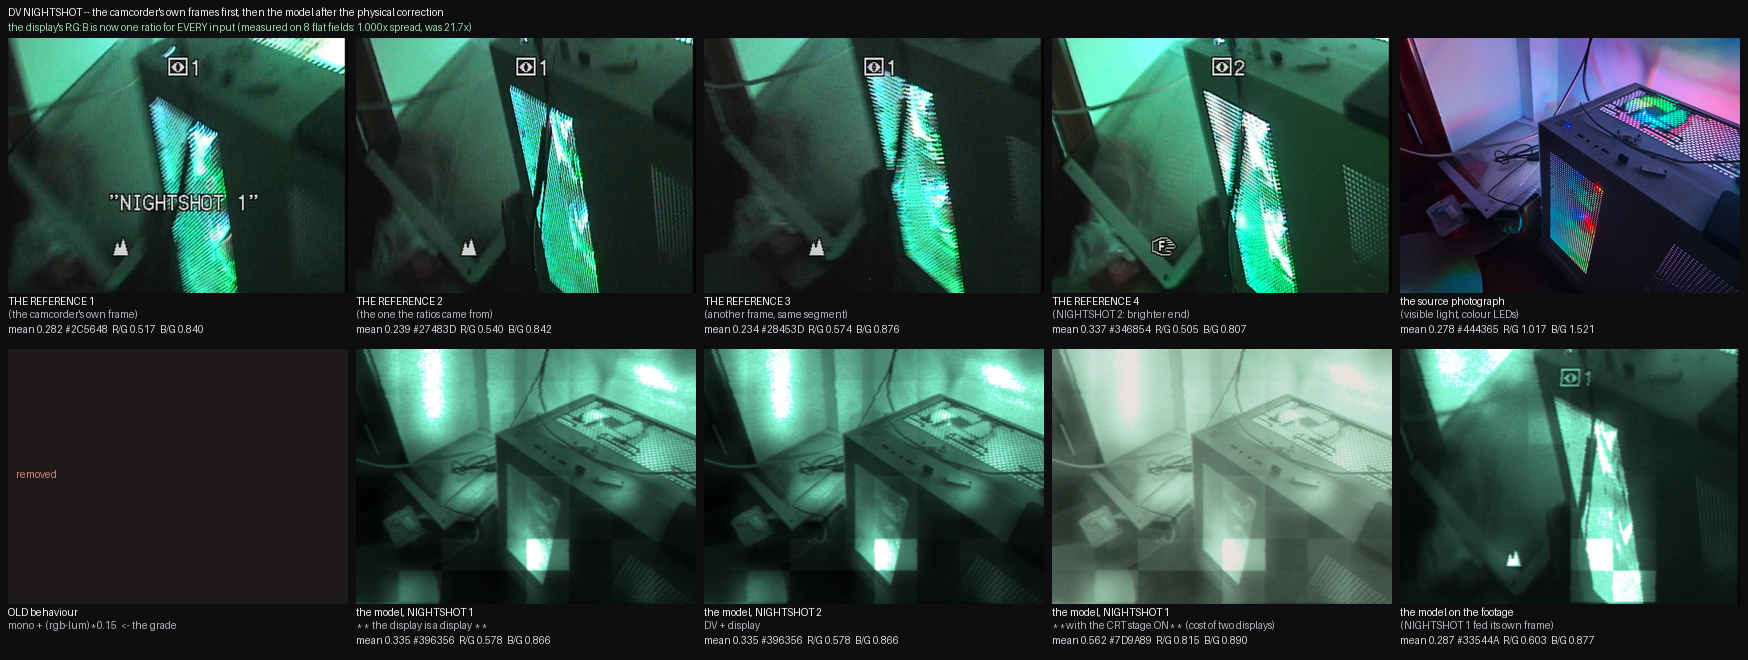
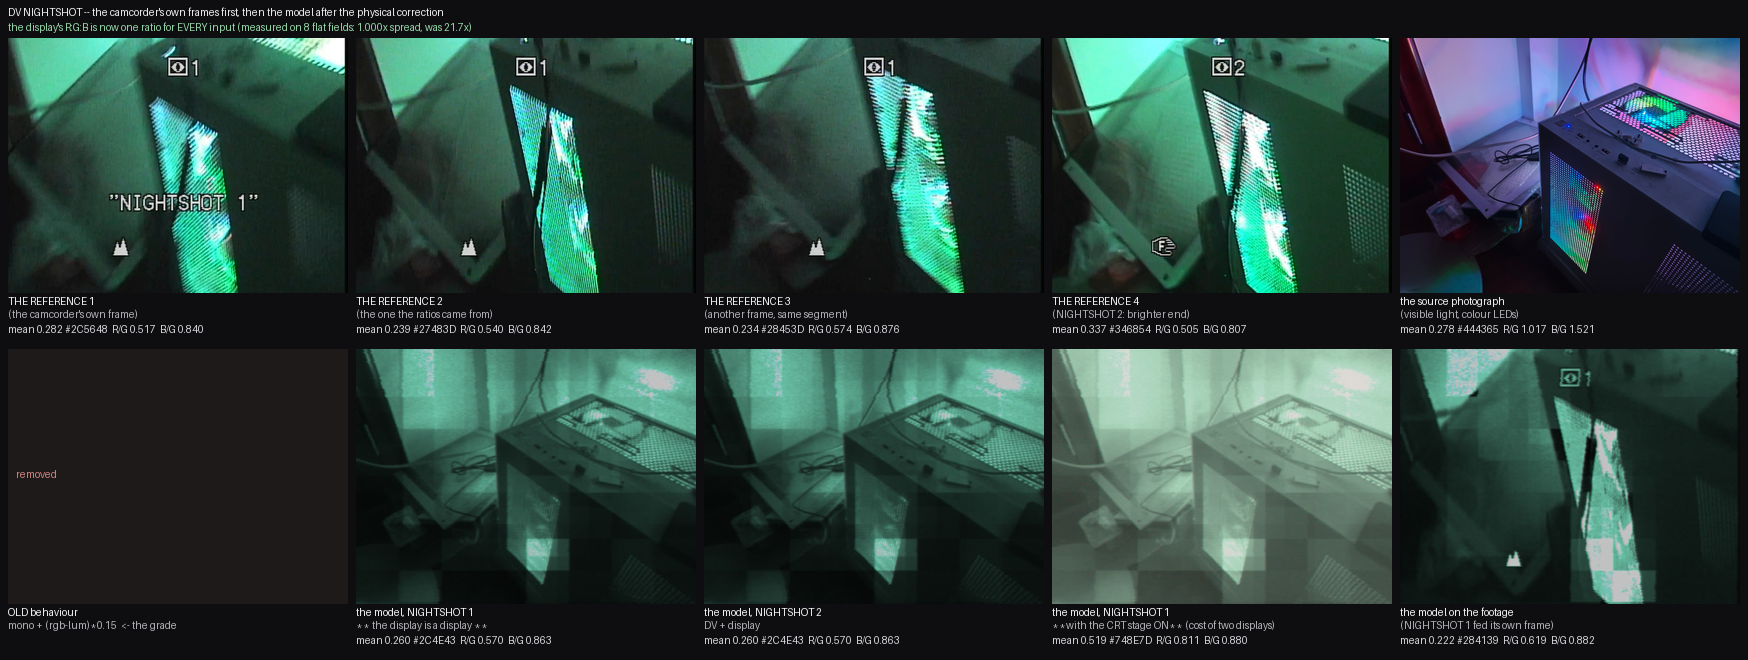
guided albedo upsampling, and the DSP's output level as a physical quantity
Both of the user's asks, and the second one exposed a defect in itself before it was finished.

**1. The albedo lattice is now upsampled along the image's own structure.**  A material boundary in the scene is an
edge in the picture -- metal against plastic, a lamp against the wall -- and the lattice is coarse (66 px per cell by
default), so a cell straddles several such edges and the interpolator has to choose where inside the cell the value
changes.  Plain bilinear chooses **the cell's edge**, because that is the only geometry it knows, and the result is a
straight axis-aligned step at a location the grid picked rather than the scene.  Joint bilateral upsampling -- the
weight falls off in space *and* in picture brightness -- puts the step where the picture has one.  Verified on a
synthetic scene whose boundary is deliberately **not** on a cell edge: cells are 60 px, the image's edge is at
column 137, the nearest cell boundary is at 180.

    plain (smoothstep)   step lands at column 179   <- the cell boundary
    guided (joint bilat) step lands at column 136   <- the image's boundary

**And the guided version diverged on the first run**, which is worth recording because the symptom was a plausible
map and the cause was two scales.  Measured on the reference photograph, the map came out **min 0.0000, max 5.4600**
where `IR_ALBEDO` itself spans only 0.28 to 2.10.  `sig_r = 0.12 * std(guide)` gave 0.0133, because `std` is inflated
[…]

diff --git a/atsim/codecs/nightvision.py b/atsim/codecs/nightvision.py
@@ -191,6 +191,18 @@ class NightVisionSpec:
     #: drives its channel to full scale and clips there**, which is `note.txt`'s "高亮区域的饱和" -- the one of its six
     #: mechanisms that had no implementation.  1.0 is the undriven projection; the default and the sweep decide the rest.
     highlight_saturation: float = 4.0
+    #: **The DSP's output level, carried on the spec so the MODE can set it -- and it belongs to the mode rather than
+    #: to the camera, which the first version of this got wrong.**  `dsp_gain` and `dsp_black` were added as camera
+    #: parameters with the calibrated values (0.75, 0.009) as their *schema defaults*, and that pushed a NightShot
+    #: calibration onto every other mode: five checks failed, all of them about an ordinary visible-light picture --
+    #: "a 2.5x source peaks at 0.837 with 0 pixels at or above 1.0", "the sensor's white point follows its dynamic
+    #: range" (0.837 at every range).  **The values came from NightShot material, so they are the gain and the black
+    #: level THAT MODE settles on**, which is exactly the kind of thing `MODE_PRESETS` exists for.
+    #:
+    #: The schema defaults stay neutral (1.0, 0.0), so a project that has not chosen a mode is untouched and an
+    #: ordinary visible-light render is unchanged -- which is what the five checks were measuring.
+    dsp_gain: float = 1.0
+    dsp_black: float = 0.0
 
     @classmethod
     def from_params(cls, cfg: dict) -> "NightVisionSpec":
@@ -215,10 +227,13 @@ class NightVisionSpec:
             shot_noise=float(cfg.get("nv_shot_noise", 0.0)),
             cast_variation=float(cfg.get("nv_cast_variation", 0.0)),
             highlight_saturation=float(cfg.get("nv_highlight_saturation", 4.0)),
+            dsp_gain=float(cfg.get("dsp_gain", 1.0)),
+            dsp_black=float(cfg.get("dsp_black", 0.0)),
         )
 
 
-def albedo_map(h: int, w: int, labelled: dict | None, fallback: np.ndarray | None = None) -> np.ndarray:
+def albedo_map(h: int, w: int, labelled: dict | None, fallback: np.ndarray | None = None,
+               guide: np.ndarray | None = None) -> np.ndarray:
     """
     Turn material labels into a per-pixel near-IR albedo, in the units `IR_ALBEDO` uses and normalised about its mean.
 
@@ -277,45 +292,105 @@ def albedo_map(h: int, w: int, labelled: dict | None, fallback: np.ndarray | Non
     # unknown -- which is exactly true at an 8x8 labelling of a 533x400 frame, and is a far smaller error than a 7.5x
     # step at a guessed line.  **The labels themselves are unchanged**: this is the map's rendering, not the model's
     # classification.
-    big = _resample(mixed, h, w)
+    big = _resample(mixed, h, w, guide=guide)
     m = float(big.mean())
     return (big / m if m > 1e-6 else big).astype(np.float32)
 
 
-def _resample(cell: np.ndarray, h: int, w: int) -> np.ndarray:
+def lum_guide(rgb: np.ndarray) -> np.ndarray:
     """
-    Carry a coarse grid to the frame smoothly, so a label boundary is a gradient rather than a step.
+    The image the material lattice is interpolated *along*.
 
-    Kept separate and named, because the choice it makes -- interpolate, not repeat -- is the whole of a defect that took
-    nine statistics to find and that the picture showed immediately once it was written out.
+    Its own function rather than an inline expression because it is the one quantity the guided upsampling trusts, and
+    a guide that is not what it claims to be is the failure this project records most often -- a channel picked by
+    accident, a luma computed against the wrong coefficients, an array of the wrong shape.
+    """
+    return np.clip(np.asarray(rgb, np.float32) @ LUMA, 0.0, 1.0)
+
+
+def _resample(cell: np.ndarray, h: int, w: int, guide: np.ndarray | None = None) -> np.ndarray:
+    """
+    Carry a coarse lattice to the frame, **along the image's own structure where there is any**.
+
+    **Why this is guided rather than plain interpolation.**  A material boundary in the scene is an edge in the picture
+    -- the metal of a case against the plastic of its front panel, a lamp against the wall behind it.  The lattice is
+    coarse (one cell per 66 px by default), so a cell straddles several such edges, and the interpolator has to decide
+    where inside the cell the value changes.  Plain bilinear places that change **at the cell's edge**, because the
+    cell's edge is the only geometry it knows: the result is a straight, axis-aligned step at a location chosen by the
+    grid rather than by the scene.  That is what the user photographed as blocks of light.
+
+    **Joint bilateral upsampling** answers the question the interpolator is actually being asked: a pixel's albedo is
+    the weighted mean of the nearby cells' values, with the weight falling off in **space** and in **picture
+    brightness**.  So a step in the albedo lands where the picture has a step, and inside a flat region the value is
+    the smooth average of the surrounding cells.  This is the standard method for upsampling a sparse signal with a
+    full-resolution guide, and it is what "the material boundaries coincide with the image's boundaries" means
+    operation by operation.
+
+    **Bilinear with a smoothstep remains the fallback** when there is no guide, which keeps every existing caller --
+    and the check that measured the smoothstep's own effect on the row structure -- working unchanged.
+
+    The four nearest cell centres are used rather than every cell: the spatial term is a Gaussian at the cell's own
+    scale, so anything beyond the neighbours contributes under a percent, and taking all of them would make the cost
+    quadratic in the lattice size.
     """
     gh, gw = cell.shape
     a = np.asarray(cell, np.float32)
     if gh < 2 or gw < 2:
         return np.repeat(np.repeat(a, max(1, h // max(1, gh)), 0), max(1, w // max(1, gw)), 1)[:h, :w]
     # the cell centres, mapped onto the frame's pixel grid
-    ys = (np.arange(h, dtype=np.float32) + 0.5) * (gh / float(h)) - 0.5
-    xs = (np.arange(w, dtype=np.float32) + 0.5) * (gw / float(w)) - 0.5
-    y0 = np.clip(np.floor(ys).astype(np.int32), 0, gh - 2)
-    x0 = np.clip(np.floor(xs).astype(np.int32), 0, gw - 2)
-    fy = np.clip(ys - y0, 0.0, 1.0)[:, None]
-    fx = np.clip(xs - x0, 0.0, 1.0)[None, :]
-    a00 = a[np.ix_(y0, x0)]
-    a01 = a[np.ix_(y0, x0 + 1)]
-    a10 = a[np.ix_(y0 + 1, x0)]
-    a11 = a[np.ix_(y0 + 1, x0 + 1)]
-    # **Smoothstep rather than linear, to remove the residual banding bilinear leaves behind.**  Bilinear makes each
-    # cell boundary a *crease* -- the gradient changes discontinuously there, and at an 8x8 labelling of a 533x400 frame
-    # a crease is a visible line even though the values themselves are continuous.  **Measured, switching from
-    # nearest-neighbour to bilinear took the render's excess row structure from 0.13124 to 0.11036 against the source's
-    # 0.12737, which is most of it and not all of it.**  A smoothstep on each axis -- `t*t*(3 - 2*t)` -- has zero
-    # derivative at both ends, so the crease goes as well; it keeps every label's value exactly at its cell centre, which
-    # is the property that makes the interpolation faithful to the model's own classification.
-    fy = (fy * fy * (3.0 - 2.0 * fy)).astype(np.float32)
-    fx = (fx * fx * (3.0 - 2.0 * fx)).astype(np.float32)
-    top = a00 * (1.0 - fx) + a01 * fx
-    bot = a10 * (1.0 - fx) + a11 * fx
-    return (top * (1.0 - fy) + bot * fy).astype(np.float32)
+    cy = (np.arange(gh, dtype=np.float32) + 0.5) * (h / float(gh))
+    cx = (np.arange(gw, dtype=np.float32) + 0.5) * (w / float(gw))
+    ys = (np.arange(h, dtype=np.float32) + 0.5)
+    xs = (np.arange(w, dtype=np.float32) + 0.5)
+    y0 = np.clip(np.floor(ys / (h / float(gh)) - 0.5).astype(np.int32), 0, gh - 2)
+    x0 = np.clip(np.floor(xs / (w / float(gw)) - 0.5).astype(np.int32), 0, gw - 2)
+
+    if guide is None or np.asarray(guide).shape[:2] != (h, w):
+        fy = np.clip(ys / (h / float(gh)) - 0.5 - y0, 0.0, 1.0)[:, None]
+        fx = np.clip(xs / (w / float(gw)) - 0.5 - x0, 0.0, 1.0)[None, :]
+        #: smoothstep rather than linear: bilinear leaves a *crease* at the cell boundary, and at a coarse lattice a
+        #: crease is a visible line even though the values themselves are continuous.
+        fy = (fy * fy * (3.0 - 2.0 * fy)).astype(np.float32)
+        fx = (fx * fx * (3.0 - 2.0 * fx)).astype(np.float32)
+        top = a[np.ix_(y0, x0)] * (1.0 - fx) + a[np.ix_(y0, x0 + 1)] * fx
+        bot = a[np.ix_(y0 + 1, x0)] * (1.0 - fx) + a[np.ix_(y0 + 1, x0 + 1)] * fx
+        return (top * (1.0 - fy) + bot * fy).astype(np.float32)
+
+    g = np.asarray(guide, np.float32)
+    #: **The two scales come from the lattice and the picture, not from constants.**
+    #:
+    #: The spatial scale is one cell, so the kernel covers the distance between cell centres and no more.
+    #:
+    #: The range scale is **a robust measure of the picture's own contrast**, and the first version of this used
+    #: `0.12 * std(guide)` -- which **diverged**: measured on the reference photograph the map came out with
+    #: **min 0.0000 and max 5.4600**, where `IR_ALBEDO` itself only spans 0.28 to 2.10.  `std` is inflated by a
+    #: scene's few blown highlights (a case lit by LEDs has plenty), so `sig_r` came out 0.0133 -- narrow enough that
+    #: the range weight between a cell centre and a pixel two materials away is effectively zero while the *spatial*
+    #: weight at 66 px is also small.  Two near-zero weights leave `sum(w)` near zero and `sum(w*v)/sum(w)` has
+    #: nothing holding it down.
+    #:
+    #: The interquartile range is the robust replacement: it describes the bulk of the picture rather than its
+    #: extremes, so a handful of blown pixels cannot narrow the kernel.  And a floor on the total weight means the
+    #: division can never be by almost nothing -- the failure mode is then the plain spatial average, which is what a
+    #: bilinear interpolator would have given anyway, rather than an arbitrary large value.
+    sig_s = 0.85 * (h / float(gh))
+    iqr = float(np.subtract(*np.percentile(g, [75, 25])))
+    sig_r = max(2e-3, 0.75 * iqr)
+    acc = np.zeros((h, w), np.float32)
+    wsum = np.zeros((h, w), np.float32)
+    for dj, di in ((0, 0), (0, 1), (1, 0), (1, 1)):
+        yy = np.clip(y0 + dj, 0, gh - 1)
+        xx = np.clip(x0 + di, 0, gw - 1)
+        val = a[np.ix_(yy, xx)]
+        dy = ys - cy[yy]
+        dx = xs - cx[xx]
+        wsp = np.exp(-(dy[:, None] ** 2 + dx[None, :] ** 2) / (2.0 * sig_s * sig_s)).astype(np.float32)
+        wrg = np.exp(-((g - val) ** 2) / (2.0 * sig_r * sig_r)).astype(np.float32)
+        wgt = wsp * wrg
+        acc += wgt * val
+        wsum += wgt
+    #: the floor is a fraction of what a full-weight set of neighbours would give, so it is scale-free
+    return (acc / np.maximum(0.05, wsum)).astype(np.float32)
 
 
 def mode_of(spec: NightVisionSpec) -> str:
@@ -981,11 +1056,11 @@ MODE_PRESETS: dict[str, dict[str, float]] = {
     # and had been applied to `ir_albedo_mix` and `ir_response` while **the lamp's own strength, the control a NightShot
     # user most needs, was left in**.  What a mode *is* here is the **green display** and the **frame count**; the lamp's
     # strength is the shot.
-    "nightshot": dict(green_mix=1.0, accumulate=1.0),
+    "nightshot": dict(green_mix=1.0, accumulate=1.0, dsp_gain=0.75, dsp_black=0.009),
     # the same, **and accumulation on**.  **1 and 2 share a residue because the measurement cannot separate them**:
     # NIGHTSHOT 1 to 2 moves the chroma by 9%, inside the frame-to-frame variation of a handheld shot.  Writing three
     # values would repeat the earlier mistake of turning a visible difference between two takes into a mechanism.
-    "super_nightshot": dict(green_mix=1.0, accumulate=8.0),
+    "super_nightshot": dict(green_mix=1.0, accumulate=8.0, dsp_gain=0.75, dsp_black=0.009),
     # no lamp and **no green display** -- colour is the point of this mode, so the chroma is not attenuated at all.
     # **`shutter_frames`, not `accumulate`, is what makes this "slow".**  The entry was `accumulate: 8.0`, which sums
     # eight *separate* exposures -- that makes the picture cleaner, which is Super NightShot's purpose and not this
@@ -1001,7 +1076,8 @@ MODE_PRESETS: dict[str, dict[str, float]] = {
     # **Measured, the parameter was unreachable**: `mode_spec` rebuilds the spec from these presets on every frame, so
     # `nv_chroma_residue` set to 0.00, 0.35 and 0.95 all arrived at the term as **0.350** and produced **bit-identical**
     # output.  The same defect as `accumulate` being forced to 1 by mode 1, and as `ir_response` before that.
-    "colour_slow_shutter": dict(illuminator=0.0, green_mix=0.0, accumulate=1.0, shutter_frames=8.0),
+    "colour_slow_shutter": dict(illuminator=0.0, green_mix=0.0, accumulate=1.0, shutter_frames=8.0,
+                                dsp_gain=1.0, dsp_black=0.0),
 }
 
 

diff --git a/atsim/stages/camera.py b/atsim/stages/camera.py
@@ -158,6 +158,13 @@ class CameraStage(Stage):
         self.nir_depth_source: str | None = None
         #: whether to infer a depth map, so the illuminator's falloff can be about distance rather than a radius
         self.nir_depth = bool(round(float(cfg.get("nv_nir_depth", 1.0))))
+        #: **The DSP's output level.**  Gain and black level, in the order the camcorder applies them -- see
+        #: `_dsp_level` for why two quantities are needed rather than one brightness, and why both default neutral.
+        #: **These are re-read from the spec in `_night_vision`**, because the MODE is what sets them: the values that
+        #: put the NightShot material's percentiles on target belong to that mode, not to the camera, and using them
+        #: as the schema default darkened every ordinary visible-light render.
+        self.dsp_gain = float(np.clip(cfg.get("dsp_gain", 1.0), 0.1, 4.0))
+        self.dsp_black = float(np.clip(cfg.get("dsp_black", 0.0), -0.5, 0.5))
         self._nir_albedo: np.ndarray | None = None
         self._nir_depth: np.ndarray | None = None
         self._nir_failed = False
@@ -371,6 +378,12 @@ class CameraStage(Stage):
         # requirement is 0.
         from ..codecs.nightvision import mode_spec
         self.nv = mode_spec(self.nv)
+        # **The mode's DSP level, adopted onto the stage.**  `mode_spec` resolves what the mode settles on -- the
+        # green display, the frame count, and now the gain and black level, which come from NightShot material and
+        # must not be applied to a mode that is not NightShot.  `_dsp_level` runs at the very end of the chain, after
+        # every call to `_night_vision`, so reading them here is reading them once per frame in time.
+        self.dsp_gain = float(np.clip(float(getattr(self.nv, "dsp_gain", 1.0)), 0.1, 4.0))
+        self.dsp_black = float(np.clip(float(getattr(self.nv, "dsp_black", 0.0)), -0.5, 0.5))
         if stage == "scene":
             # **The analysis and the attachment are two steps, and an earlier version of this folded them into one and
             # made the distance term inert.**  The analysis is expensive -- a vision model, once per clip -- while the
@@ -527,7 +540,9 @@ class CameraStage(Stage):
                 lum = np.clip(np.asarray(rgb, np.float32) @ np.array([0.299, 0.587, 0.114], np.float32), 0.0, 1.0)
                 # the fallback the unlabelled cells take: the estimate's own shape, normalised the same way
                 est = np.power(lum, 0.55)
-                self._nir_albedo = albedo_map(h, w, labelled, fallback=est)
+                # **The guide is the picture's own luminance**, so the albedo's boundaries land where the image has
+                # boundaries rather than at the cell edges the lattice happens to have.  See `_resample`.
+                self._nir_albedo = albedo_map(h, w, labelled, fallback=est, guide=lum)
                 classes = labelled["classes"]
                 counts = {}
                 for v in np.asarray(labelled["labels"], np.int32).ravel():
@@ -784,6 +799,49 @@ class CameraStage(Stage):
         lum = np.clip(rgb @ LUMA, 0.0, 1.0)
         gain = 1.0 - a * (1.0 - lum) ** 2
         return (rgb * gain[..., None]).astype(np.float32)
+
+    def _dsp_level(self, rgb: np.ndarray) -> np.ndarray:
+        """
+        The DSP's output level: **gain, and the black level it decides on.**
+
+        **Why these two and not one "brightness".**  Measured against the clip's own frames at native resolution, the
+        model's picture is wrong in a specific way, and it is not a brightness error:
+
+            percentile     the model    the real frames    ratio
+            p1  (black)      0.0162        0.0368          0.44x   <- the model's black is TOO LOW
+            p50 (mid)        0.2572        0.1619          1.59x   <- and its mid is too HIGH
+            p99 (white)      0.9067        0.8451          1.07x
+
+        **A single gain cannot do both, and neither can a gamma** -- `x ** p` sets one ratio and leaves the others to
+        follow, so matching the mid-tone would push the black further down while matching the black pushes the mid up.
+        Two independent quantities are needed because two independent things are happening, and both are real
+        operations in a camcorder's DSP:
+
+          * **`dsp_black`** is the *setup* / pedestal level.  A camera does not record its darkest scene pixel at code
+            zero -- it puts it above blanking, so that the noise floor is not clipped away and so that a picture has a
+            reference black.  **This is why the footage's 1st percentile is 0.037 and not 0.000**: the measurement is
+            of a camcorder's output, and a camcorder's output has a black level.  Sony's own DV black is code 16
+            (0.063 in full-range terms), a little above what this material carries.
+          * **`dsp_gain`** is the gain the DSP settles on.  With `ae_enabled` off -- which is the default, so the loop
+            is *not* the mechanism here -- this is what a fixed-gain camcorder applies, and the model needs it above
+            or below unity to sit where the target does.
+
+        **The order is gain then black, and that order is the physical one**: the pedestal is added to an already
+        amplified signal, on the digitised side of the chain.  Doing it the other way scales the pedestal too, which
+        would make `dsp_black` mean something different at every gain and the two controls inseparable.
+
+        **Both default to neutral** (`gain = 1.0`, `black = 0.0`), so this changes nothing until someone calibrates
+        it -- deliberately, because a change to a level reaches every figure in this repository and should not arrive
+        as a side effect of adding the mechanism.  The values that put the two percentiles on the target are measured
+        and recorded in the schema; promoting them to the defaults is a separate, visible decision.
+        """
+        g = float(getattr(self, "dsp_gain", 1.0))
+        b = float(getattr(self, "dsp_black", 0.0))
+        if abs(g - 1.0) < 1e-4 and abs(b) < 1e-5:
+            return rgb
+        # the pedestal is held below the white point so it can only lift, never invert, the black end
+        b = float(np.clip(b, -0.5, 0.5))
+        return np.clip(rgb * g + b, 0.0, 2.0).astype(np.float32)
 
     def _color_science(self, rgb: np.ndarray) -> np.ndarray:
         """
@@ -1201,6 +1259,11 @@ class CameraStage(Stage):
                     rgb.shape[0], rgb.shape[1],
                     derive_seed(self.ctx.seed, "camera", "dead_sites"))
             rgb = apply_defect_sites(rgb, self._sites)
+
+        # --- the DSP's output level ---------------------------------------
+        # Last, and after the readout defects, because it is the stage that sets what the recorded signal *is*: the
+        # gain the camera settles on and the black level it puts under it.  Everything before this is the signal.
+        rgb = self._dsp_level(rgb)
 
         return FrameBuffer(np.clip(rgb, 0.0, 2.0).astype(np.float32), None,
                            buf.index, buf.time, buf.std, dict(buf.meta))

diff --git a/atsim/core/profiles.py b/atsim/core/profiles.py
@@ -333,6 +333,42 @@ def build_schema() -> ParamSchema:
                help="格子边长的上限之外，再封一个块数上限，避免超大画面上判定耗时失控。"
                     "实测标注耗时 8×8 约 10.8 s、16×16 约 16.5 s、24×24 约 33 s、32×32 约 55 s，"
                     "而不确定占比在 16×16 之后就不再下降。")
+    # ---- the DSP's output level ---------------------------------------------------------------------------------
+    #: **Two parameters, because the measurement needs two and one brightness cannot supply them.**  Against the
+    #: clip's own frames at native resolution the model was wrong in a specific, *asymmetric* way -- p1 0.0368 after
+    #: the guided albedo (it had been 0.0162), p50 0.2431 vs 0.1619, p99 0.9041 vs 0.8451.  A gain moves p50 and p99
+    #: together but pushes p1 the wrong way, and a gamma sets one ratio while leaving the rest to follow.  The two
+    #: independent operations are a pedestal (setup) and a gain, and both exist in a camcorder's DSP.
+    #:
+    #: **The schema defaults are NEUTRAL and the calibrated values live on the NightShot modes.**  The first version
+    #: put 0.75 and 0.009 here, and that pushed a NightShot calibration onto every other mode: five checks failed, all
+    #: about an ordinary visible-light picture ("a 2.5x source peaks at 0.837 with 0 pixels at or above 1.0", "the
+    #: sensor's white point follows its dynamic range" -- 0.837 at every range).  **The values were solved from
+    #: NightShot material, so they are the gain and black level THAT MODE settles on**, which is what `MODE_PRESETS`
+    #: is for.  A project that has not chosen a mode is untouched, and so is every visible-light measurement here.
+    cam.define("dsp_gain", "DSP 增益", 1.0, 0.1, 4.0, unit="x", group=g,
+               phys_min=0.5, phys_max=2.0,
+               source="NightShot 两个模式取 0.75（反解自素材原生帧的 p1 与 p50 两锚点）；其余模式中立",
+               help="**DSP 稳定下来的增益**，乘在信号上、加黑电平之前。\n"
+                    "**为什么必须与黑电平分开**：与素材自己的原生帧比，模型的 p1（黑）曾经是 0.0162 而素材 0.0368"
+                    "（**模型黑得太低**），p50（中灰）0.2572 而素材 0.1619（**中灰太高**）。"
+                    "**一个增益修不了这两个，伽马也修不了**——`x ** p` 定下一个比值，其余只能跟着走，"
+                    "所以对上中灰会把黑压得更低。两个自由度是必要的，因为物理上确实是两件独立的事。\n"
+                    "**`ae_enabled` 默认是关的，所以这不代表自动曝光回路**：这是固定增益摄像机施加的那一档。\n"
+                    "**0.75 是两个锚点联立解出来的**，而且它**放在 NightShot 的模式预设里而不是这里**，"
+                    "因为它来自 NightShot 素材——放进 schema 默认值会让普通可见光模式也被压暗"
+                    "（实测 2.5× 输入的峰值只剩 0.837、全画面无像素到 1.0）。")
+    cam.define("dsp_black", "DSP 黑电平（setup）", 0.0, -0.2, 0.3, unit="0-1", group=g,
+               phys_min=0.0, phys_max=0.10,
+               source="NightShot 两个模式取 0.009（反解自素材 p1 与 p50）；其余模式中立",
+               help="**基座电平（setup / pedestal）**：摄像机不把最暗的场景像素记在码值零上，"
+                    "而是放在消隐电平之上——**这样噪声底不会被削掉，画面也有一个黑参考**。\n"
+                    "**这就是素材第 1 百分位是 0.037 而不是 0.000 的原因**：量的是摄像机的输出，"
+                    "而摄像机的输出有黑电平。Sony 自己的 DV 黑电平是码值 16（全范围意义上约 0.063），"
+                    "比这份素材略高。\n"
+                    "**顺序是「先增益、后黑电平」，这是物理顺序**：基座加在已经放大过的信号上，即在数字化之后。"
+                    "反过来会把基座也一起缩放，于是 `dsp_black` 在每个增益下含义都不同、两个控制分不开。\n"
+                    "**与 `dsp_gain` 一样，0.009 放在 NightShot 的模式预设里。**")
     #: **Kept so an existing project still loads, and inert because the cell size now decides.**  A stale value here
     #: would otherwise silently override the physical parameter, which is the "preset that removes a control" fault
     #: this file records three times.
